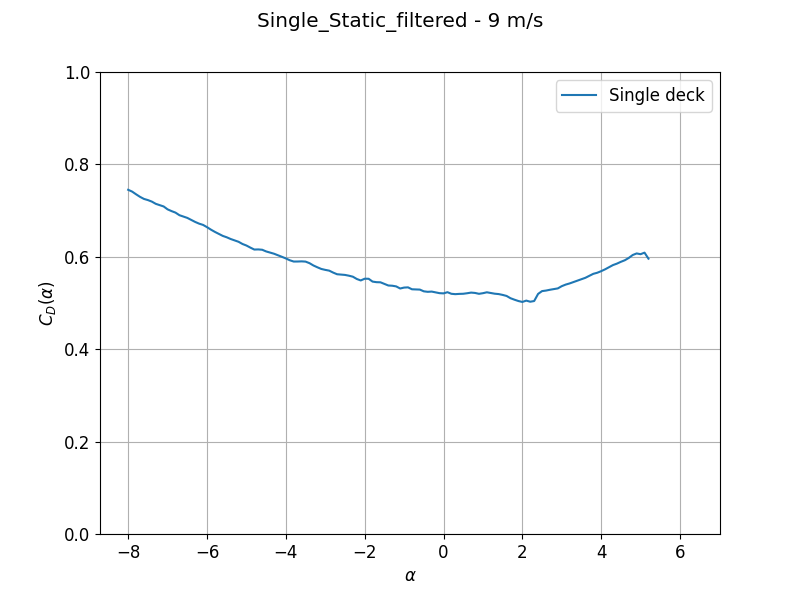
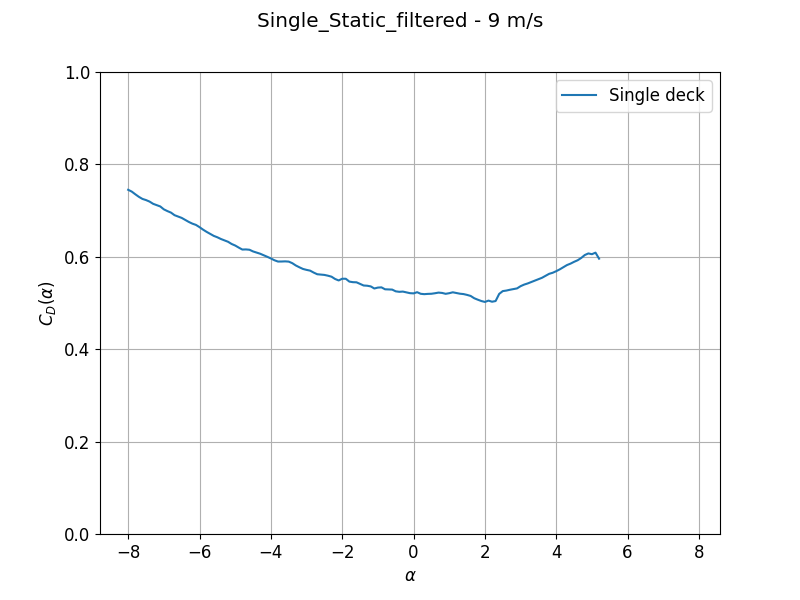
debugge

diff --git a/w3tp/w3t/_scoff.py b/w3tp/w3t/_scoff.py
@@ -1523,7 +1523,7 @@ def get_coeffs(static_coeff):
     alpha = np.round(static_coeff.pitch_motion * 360 / (2 * np.pi), 1)
     return alpha, static_coeff.drag_coeff.copy(), static_coeff.lift_coeff.copy(), static_coeff.pitch_coeff.copy()
      
-def remove_after_jump(alpha_vals, coeff_array, threshold_jump=0.1, cols=(0, 1)):
+def remove_after_jump(alpha_vals, coeff_array, threshold_jump=0.85, cols=(0, 1)):
     alpha_vals_rounded = np.round(alpha_vals, 1)
     unique_alpha = np.sort(np.unique(alpha_vals_rounded)) # Lager en sortert liste av unike α-verdier (avrundet til én desimal).
 
